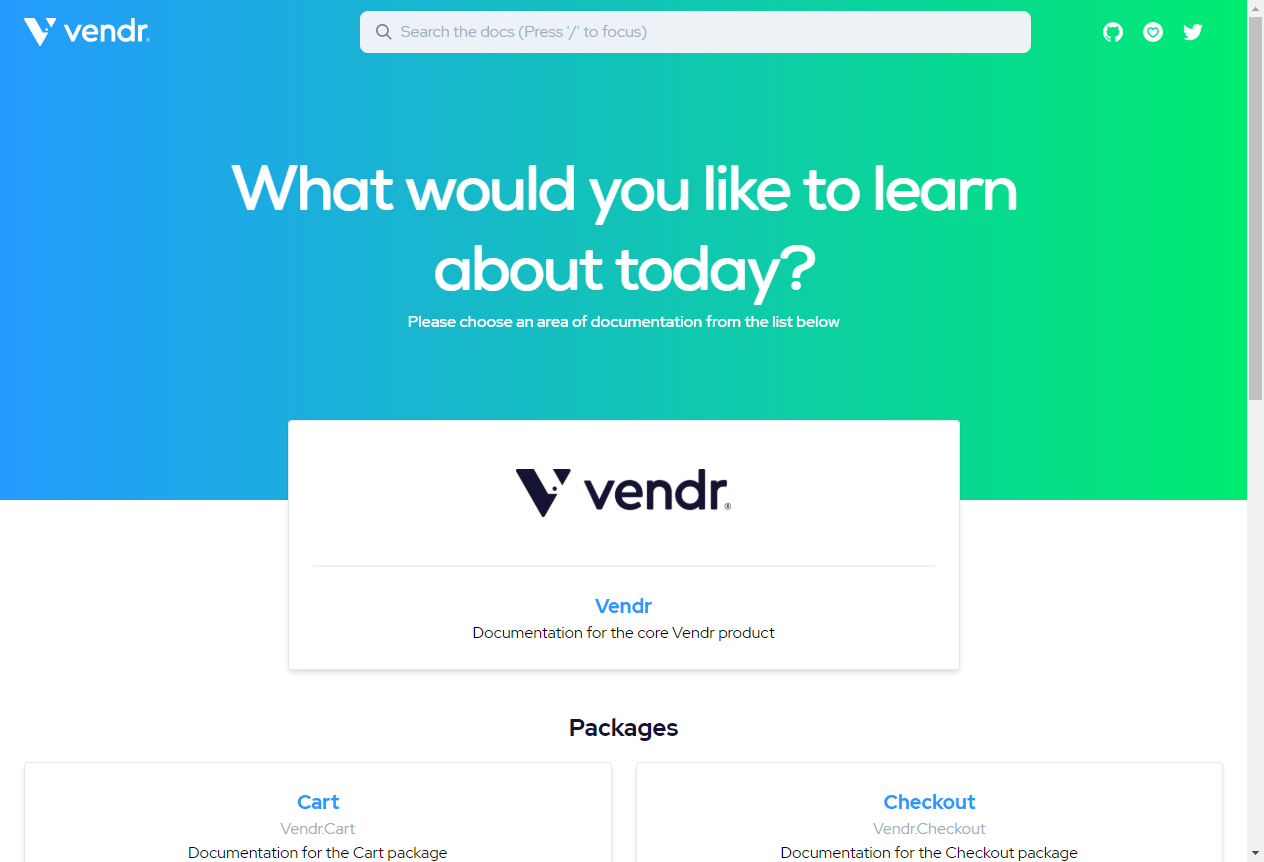
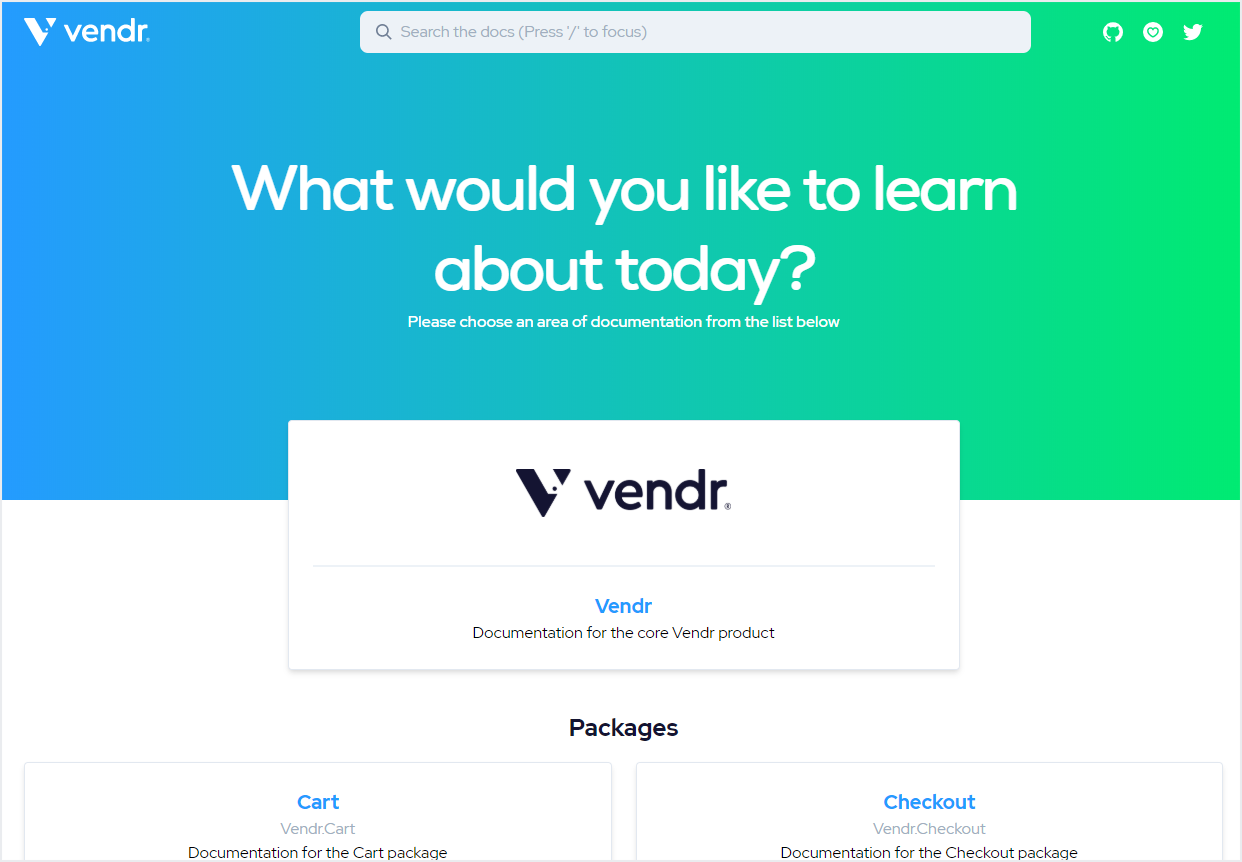
Added border to screenshot and removed scrollbars

diff --git a/README.md b/README.md
@@ -10,7 +10,7 @@ The live version of these docs can be found at [https://vendr.net/docs/](https:/
 </div>
 
 <a href="https://vendr.net/docs/" target="_blank">
-    <img src="static/assets/images/vendr-docs-home.png" alt="Screenshot" />
+    <img src="static/assets/images/vendr-docs-home.png?v=1" alt="Screenshot" style />
 </a>
 
 ## Contributing
